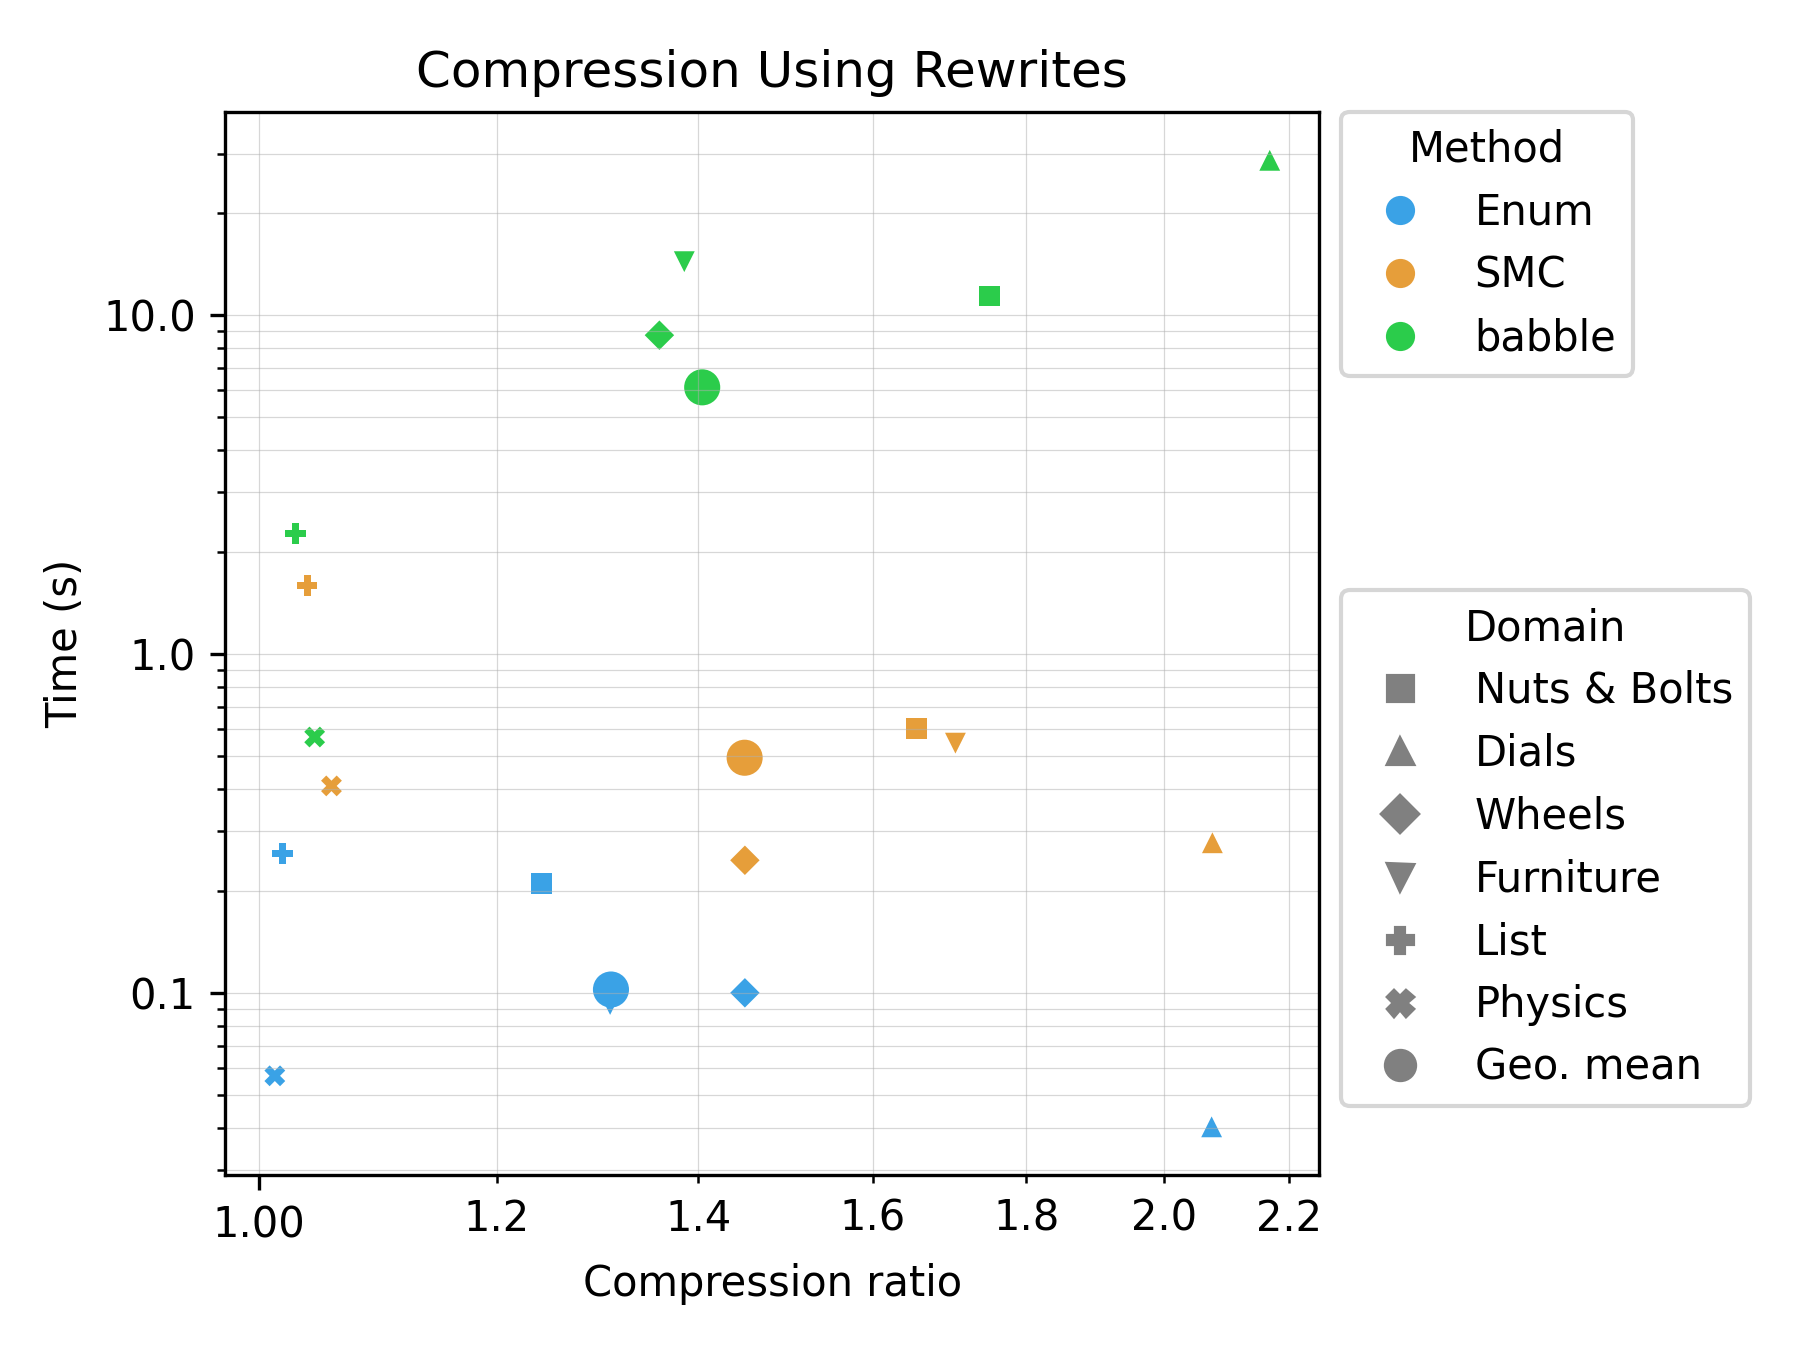
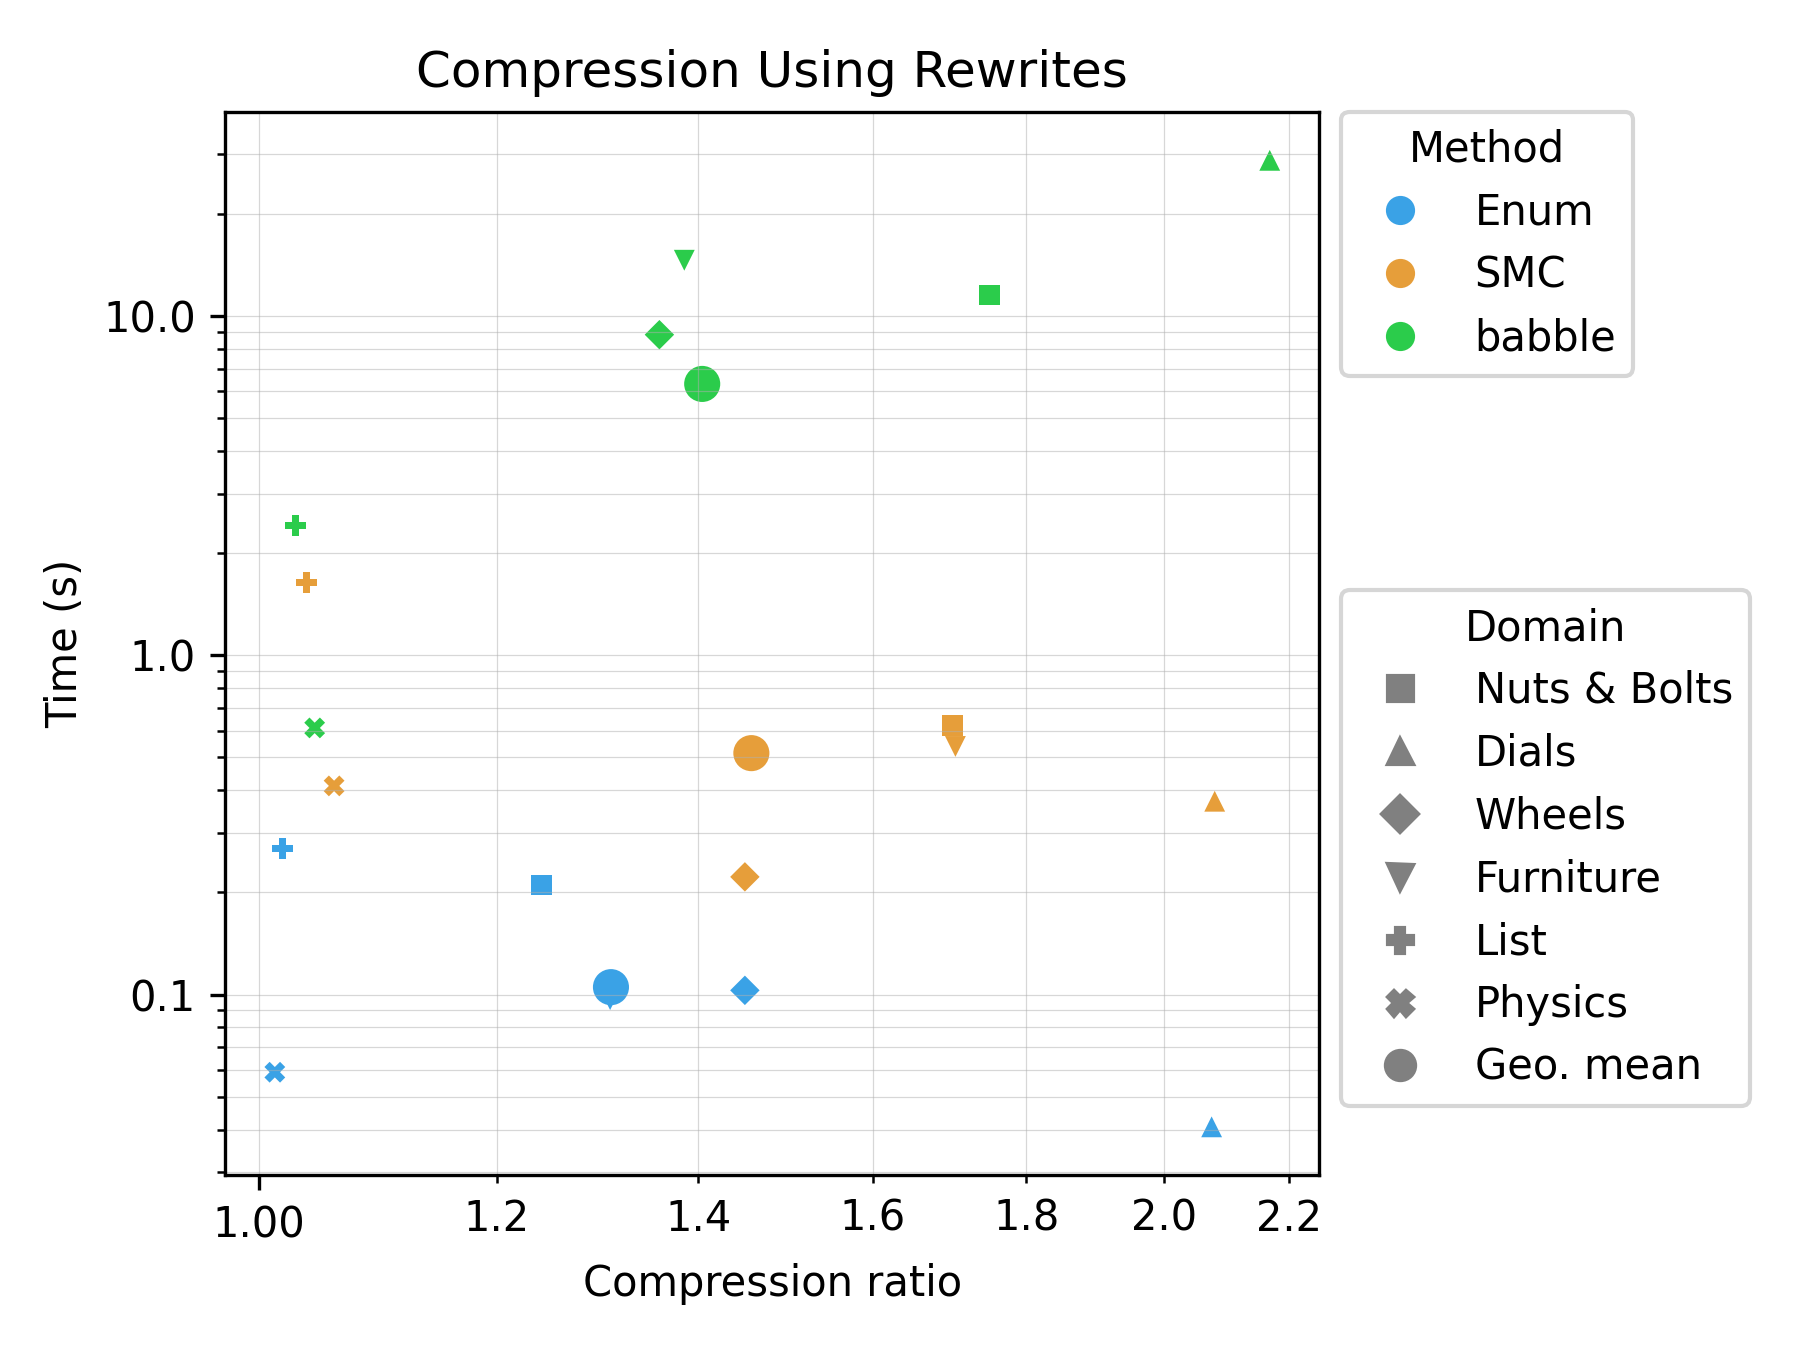
update tables

diff --git a/figures/table4.tex b/figures/table4.tex
@@ -1,4 +1,4 @@
-% source: /home/kavi/mit/egg-stitch/viz/results/table4/2026-05-08_09-31-05/table4.json
+% source: /home/kavi/mit/egg-stitch/viz/results/table4/2026-05-09_17-39-10/table4.json
 % Compression Without Rewrites, Stacked Abstractions: generated from results JSON
 \begin{tabular}{l r  rrrr rrrr}
 \toprule
@@ -6,16 +6,16 @@
 \cmidrule(lr){2-2} \cmidrule(lr){3-6} \cmidrule(lr){7-10}
 Domain & Original & Enum & SMC & babble & Stitch & Enum & SMC & babble & Stitch \\
 \midrule
-Nuts \& Bolts & 19009 & 1.61 & 15.28 & 9.11 & \textbf{16.99} & 0.704 & 1.929 & 10.488 & \textbf{0.097} \\
-Dials & 35713 & 5.17 & 6.47 & 5.25 & \textbf{8.87} & 0.721 & 6.040 & 41.845 & \textbf{0.456} \\
-Wheels & 35427 & 1.53 & \textbf{6.92} & 5.47 & 6.61 & 0.606 & 8.826 & 44.039 & \textbf{0.416} \\
-Furniture & 42936 & 3.38 & 6.47 & 4.26 & \textbf{7.00} & 2.039 & 11.098 & 70.679 & \textbf{0.584} \\
-List & 35680 & 1.05 & 1.30 & 1.07 & \textbf{1.37} & \textbf{0.750} & 17.563 & 21.004 & 1.250 \\
-Physics & 9405 & 1.08 & 1.66 & 1.39 & \textbf{2.08} & \textbf{0.132} & 3.913 & 2.651 & 0.278 \\
-Text & 30002 & 1.05 & 1.56 & 1.21 & \textbf{1.94} & \textbf{0.493} & 14.128 & 12.480 & 0.781 \\
-Logo & 11228 & 1.14 & 2.07 & 1.33 & \textbf{2.11} & \textbf{0.216} & 5.422 & 11.186 & 0.317 \\
-Towers & 9556 & 1.40 & 2.35 & 1.36 & \textbf{2.57} & 0.332 & 4.803 & 3.791 & \textbf{0.215} \\
+Nuts \& Bolts & 19009 & 1.61 & 14.90 & 9.11 & \textbf{16.99} & 0.707 & 1.997 & 10.431 & \textbf{0.098} \\
+Dials & 35713 & 5.17 & 6.42 & 5.25 & \textbf{8.87} & 0.705 & 5.820 & 41.670 & \textbf{0.446} \\
+Wheels & 35427 & 1.53 & \textbf{7.01} & 5.47 & 6.61 & 0.612 & 9.294 & 44.615 & \textbf{0.413} \\
+Furniture & 42936 & 3.38 & 6.46 & 4.26 & \textbf{7.00} & 2.004 & 11.129 & 71.215 & \textbf{0.581} \\
+List & 35680 & 1.05 & 1.30 & 1.07 & \textbf{1.37} & \textbf{0.759} & 17.596 & 21.347 & 1.246 \\
+Physics & 9405 & 1.08 & 1.66 & 1.39 & \textbf{2.08} & \textbf{0.135} & 3.930 & 2.856 & 0.277 \\
+Text & 30002 & 1.05 & 1.56 & 1.21 & \textbf{1.94} & \textbf{0.503} & 14.456 & 12.795 & 0.784 \\
+Logo & 11228 & 1.14 & 2.08 & 1.33 & \textbf{2.11} & \textbf{0.221} & 5.487 & 11.528 & 0.318 \\
+Towers & 9556 & 1.40 & 2.36 & 1.36 & \textbf{2.57} & 0.338 & 4.864 & 3.911 & \textbf{0.218} \\
 \midrule
-Geo. mean &  & 1.63 & 3.47 & 2.49 & \textbf{3.90} & 0.506 & 6.744 & 15.077 & \textbf{0.388} \\
+Geo. mean &  & 1.63 & 3.46 & 2.49 & \textbf{3.90} & 0.511 & 6.824 & 15.395 & \textbf{0.387} \\
 \bottomrule
 \end{tabular}

diff --git a/figures/table2.tex b/figures/table2.tex
@@ -1,4 +1,4 @@
-% source: /home/kavi/mit/egg-stitch/viz/results/table2/2026-05-08_08-41-14/table2.json
+% source: /home/kavi/mit/egg-stitch/viz/results/table2/2026-05-09_16-49-13/table2.json
 % Compression Without Rewrites: generated from results JSON
 \begin{tabular}{l r  rrrr rrrr}
 \toprule
@@ -6,16 +6,16 @@
 \cmidrule(lr){2-2} \cmidrule(lr){3-6} \cmidrule(lr){7-10}
 Domain & Original & Enum & SMC & babble & Stitch & Enum & SMC & babble & Stitch \\
 \midrule
-Nuts \& Bolts & 19009 & 1.29 & 1.73 & 1.67 & \textbf{1.78} & \textbf{0.035} & 0.139 & 2.024 & 0.044 \\
-Dials & 35713 & 1.22 & 1.23 & 1.26 & \textbf{1.27} & \textbf{0.065} & 0.259 & 7.588 & 0.107 \\
-Wheels & 35427 & 1.22 & 1.24 & 1.14 & \textbf{1.24} & \textbf{0.102} & 0.207 & 4.524 & 0.108 \\
-Furniture & 42936 & 1.15 & 1.38 & 1.22 & \textbf{1.38} & \textbf{0.108} & 0.630 & 11.351 & 0.150 \\
-List & 35680 & 1.02 & 1.03 & 1.03 & \textbf{1.07} & 0.230 & 1.424 & 2.161 & \textbf{0.202} \\
-Physics & 9405 & 1.01 & 1.05 & 1.04 & \textbf{1.07} & \textbf{0.048} & 0.368 & 0.470 & 0.055 \\
-Text & 30002 & 1.01 & 1.05 & 1.05 & \textbf{1.10} & 0.196 & 1.326 & 1.376 & \textbf{0.185} \\
-Logo & 11228 & 1.03 & 1.08 & 1.05 & \textbf{1.12} & \textbf{0.059} & 0.397 & 1.530 & 0.060 \\
-Towers & 9556 & 1.07 & 1.14 & 1.16 & \textbf{1.34} & 0.056 & 0.414 & 0.715 & \textbf{0.055} \\
+Nuts \& Bolts & 19009 & 1.29 & 1.70 & 1.67 & \textbf{1.78} & \textbf{0.036} & 0.141 & 2.038 & 0.044 \\
+Dials & 35713 & 1.22 & 1.23 & 1.26 & \textbf{1.27} & \textbf{0.066} & 0.241 & 7.718 & 0.108 \\
+Wheels & 35427 & 1.22 & 1.24 & 1.14 & \textbf{1.24} & \textbf{0.102} & 0.191 & 4.635 & 0.109 \\
+Furniture & 42936 & 1.15 & 1.38 & 1.22 & \textbf{1.38} & \textbf{0.111} & 0.638 & 11.438 & 0.149 \\
+List & 35680 & 1.02 & 1.03 & 1.03 & \textbf{1.07} & 0.231 & 1.445 & 2.334 & \textbf{0.203} \\
+Physics & 9405 & 1.01 & 1.05 & 1.04 & \textbf{1.07} & \textbf{0.050} & 0.376 & 0.488 & 0.054 \\
+Text & 30002 & 1.01 & 1.05 & 1.05 & \textbf{1.10} & 0.199 & 1.358 & 1.485 & \textbf{0.186} \\
+Logo & 11228 & 1.03 & 1.08 & 1.05 & \textbf{1.12} & \textbf{0.060} & 0.411 & 1.612 & 0.060 \\
+Towers & 9556 & 1.07 & 1.15 & 1.16 & \textbf{1.34} & 0.057 & 0.426 & 0.773 & \textbf{0.056} \\
 \midrule
-Geo. mean &  & 1.11 & 1.20 & 1.17 & \textbf{1.25} & \textbf{0.083} & 0.433 & 2.199 & 0.093 \\
+Geo. mean &  & 1.11 & 1.20 & 1.17 & \textbf{1.25} & \textbf{0.084} & 0.433 & 2.293 & 0.093 \\
 \bottomrule
 \end{tabular}

diff --git a/figures/table3.tex b/figures/table3.tex
@@ -1,4 +1,4 @@
-% source: /home/kavi/mit/egg-stitch/viz/results/table3/2026-05-08_08-47-59/table3.json
+% source: /home/kavi/mit/egg-stitch/viz/results/table3/2026-05-09_16-56-07/table3.json
 % Compression Using Rewrites, Stacked Abstractions: generated from results JSON
 \begin{tabular}{l r r rrrr rrrr}
 \toprule
@@ -6,13 +6,13 @@
 \cmidrule(lr){2-3} \cmidrule(lr){4-7} \cmidrule(lr){8-11}
 Domain & Original & E-graph min & Enum & SMC & babble & Stitch & Enum & SMC & babble & Stitch \\
 \midrule
-Nuts \& Bolts & 19009 & 19009 & 14.64 & \textbf{15.97} & 10.43 & N/A & \textbf{0.837} & 12.104 & 22.199 & N/A \\
-Dials & 35713 & 20583 & 5.84 & \textbf{9.51} & 7.09 & N/A & \textbf{0.511} & 4.727 & 43.571 & N/A \\
-Wheels & 35427 & 30257 & 1.92 & \textbf{8.28} & 6.44 & N/A & \textbf{1.145} & 7.142 & 42.626 & N/A \\
-Furniture & 42936 & 37028 & 3.41 & \textbf{6.76} & 4.56 & N/A & \textbf{1.609} & 11.153 & 60.263 & N/A \\
-List & 35680 & 35592 & 1.05 & \textbf{1.32} & 1.07 & N/A & \textbf{0.861} & 18.289 & 22.103 & N/A \\
-Physics & 9405 & 9405 & 1.06 & \textbf{1.67} & 1.37 & N/A & \textbf{0.167} & 4.131 & 3.400 & N/A \\
+Nuts \& Bolts & 19009 & 19009 & 14.64 & \textbf{15.68} & 10.43 & N/A & \textbf{0.843} & 10.270 & 22.081 & N/A \\
+Dials & 35713 & 20583 & 5.84 & \textbf{9.78} & 7.09 & N/A & \textbf{0.514} & 4.838 & 43.972 & N/A \\
+Wheels & 35427 & 30257 & 1.92 & \textbf{8.68} & 6.44 & N/A & \textbf{1.134} & 7.244 & 42.840 & N/A \\
+Furniture & 42936 & 37028 & 3.41 & \textbf{6.91} & 4.56 & N/A & \textbf{1.631} & 10.909 & 60.876 & N/A \\
+List & 35680 & 35592 & 1.05 & \textbf{1.32} & 1.07 & N/A & \textbf{0.877} & 18.892 & 22.364 & N/A \\
+Physics & 9405 & 9405 & 1.06 & \textbf{1.68} & 1.37 & N/A & \textbf{0.170} & 4.220 & 3.496 & N/A \\
 \midrule
-Geo. mean &  &  & 2.92 & \textbf{5.15} & 3.84 & N/A & \textbf{0.695} & 8.372 & 23.907 & N/A \\
+Geo. mean &  &  & 2.92 & \textbf{5.22} & 3.84 & N/A & \textbf{0.701} & 8.240 & 24.142 & N/A \\
 \bottomrule
 \end{tabular}

diff --git a/figures/table1.tex b/figures/table1.tex
@@ -1,4 +1,4 @@
-% source: /home/kavi/mit/egg-stitch/viz/results/table1/2026-05-08_08-29-25/table1.json
+% source: /home/kavi/mit/egg-stitch/viz/results/table1/2026-05-09_16-37-14/table1.json
 % Compression Using Rewrites: generated from results JSON
 \begin{tabular}{l r r rrrr rrrr}
 \toprule
@@ -6,13 +6,13 @@
 \cmidrule(lr){2-3} \cmidrule(lr){4-7} \cmidrule(lr){8-11}
 Domain & Original & E-graph min & Enum & SMC & babble & Stitch & Enum & SMC & babble & Stitch \\
 \midrule
-Nuts \& Bolts & 19009 & 19009 & 1.24 & 1.65 & \textbf{1.75} & N/A & \textbf{0.210} & 0.603 & 11.394 & N/A \\
-Dials & 35713 & 20583 & 2.07 & 2.08 & \textbf{2.17} & N/A & \textbf{0.040} & 0.278 & 28.642 & N/A \\
-Wheels & 35427 & 30257 & \textbf{1.45} & \textbf{1.45} & 1.36 & N/A & \textbf{0.100} & 0.246 & 8.730 & N/A \\
-Furniture & 42936 & 37028 & 1.31 & \textbf{1.70} & 1.39 & N/A & \textbf{0.093} & 0.546 & 14.387 & N/A \\
-List & 35680 & 35592 & 1.02 & \textbf{1.04} & 1.03 & N/A & \textbf{0.259} & 1.590 & 2.265 & N/A \\
-Physics & 9405 & 9405 & 1.01 & \textbf{1.06} & 1.04 & N/A & \textbf{0.057} & 0.409 & 0.569 & N/A \\
+Nuts \& Bolts & 19009 & 19009 & 1.24 & 1.70 & \textbf{1.75} & N/A & \textbf{0.210} & 0.621 & 11.547 & N/A \\
+Dials & 35713 & 20583 & 2.07 & 2.08 & \textbf{2.17} & N/A & \textbf{0.041} & 0.371 & 28.808 & N/A \\
+Wheels & 35427 & 30257 & \textbf{1.45} & \textbf{1.45} & 1.36 & N/A & \textbf{0.103} & 0.222 & 8.819 & N/A \\
+Furniture & 42936 & 37028 & 1.31 & \textbf{1.70} & 1.39 & N/A & \textbf{0.097} & 0.539 & 14.619 & N/A \\
+List & 35680 & 35592 & 1.02 & \textbf{1.04} & 1.03 & N/A & \textbf{0.269} & 1.636 & 2.417 & N/A \\
+Physics & 9405 & 9405 & 1.01 & \textbf{1.06} & 1.04 & N/A & \textbf{0.059} & 0.412 & 0.611 & N/A \\
 \midrule
-Geo. mean &  &  & 1.31 & \textbf{1.45} & 1.40 & N/A & \textbf{0.102} & 0.495 & 6.126 & N/A \\
+Geo. mean &  &  & 1.31 & \textbf{1.46} & 1.40 & N/A & \textbf{0.105} & 0.515 & 6.314 & N/A \\
 \bottomrule
 \end{tabular}
